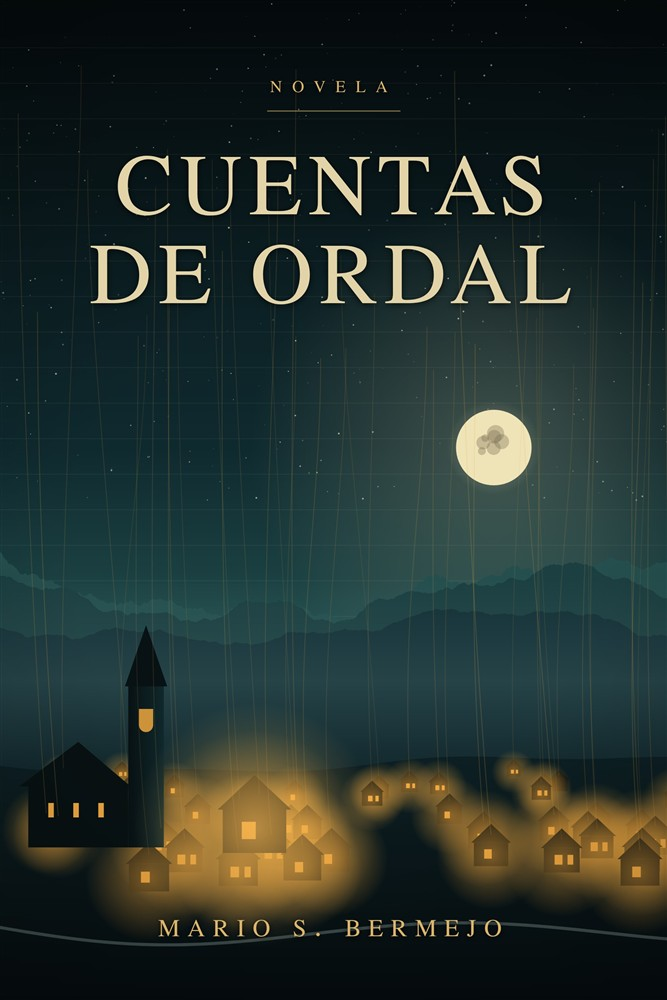
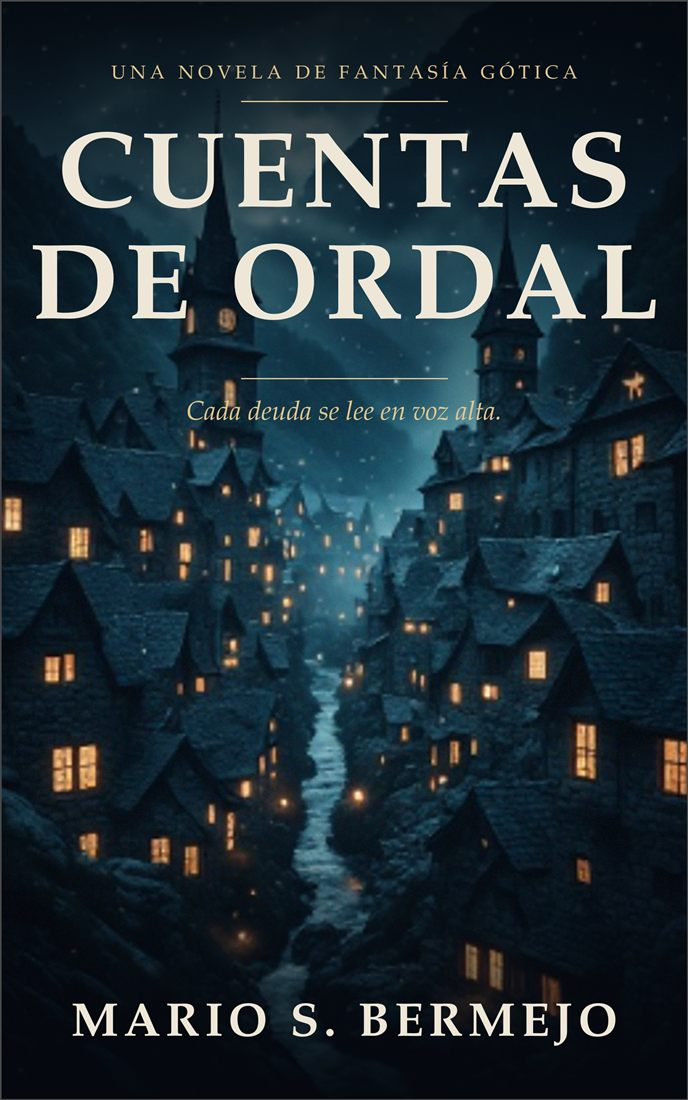
Fondo de libreria antigua, portada nueva y carrusel de laminas en Cuentas de Ordal

diff --git a/index.html b/index.html
@@ -25,6 +25,7 @@
 </head>
 <body>
 
+<canvas id="shelves" aria-hidden="true"></canvas>
 <div class="sparkles" id="sparkles" aria-hidden="true"></div>
 
 <div class="wrap">
@@ -82,6 +83,24 @@
         <li>eBook y papel</li>
       </ul>
       <p class="soon-follow">Te avisaré del lanzamiento en <a href="https://www.instagram.com/la.estanteriainfinita/" target="_blank" rel="noopener">Instagram</a> y <a href="https://www.tiktok.com/@la.estanteria.infinita" target="_blank" rel="noopener">TikTok</a>.</p>
+    </div>
+
+    <div class="car" role="region" aria-roledescription="carrusel" aria-label="Láminas de Cuentas de Ordal">
+      <p class="car-title">Láminas del libro</p>
+      <button class="car-btn car-prev" type="button" aria-label="Lámina anterior">&#8249;</button>
+      <div class="car-track" tabindex="0">
+        <figure><img src="img/ordal-lamina-01.jpg" alt="Lámina I: El libro, en su atril" loading="lazy"></figure>
+        <figure><img src="img/ordal-lamina-02.jpg" alt="Lámina II: La lectura en la plaza" loading="lazy"></figure>
+        <figure><img src="img/ordal-lamina-03.jpg" alt="Lámina III: La mano izquierda" loading="lazy"></figure>
+        <figure><img src="img/ordal-lamina-04.jpg" alt="Lámina IV: Las manos de Casa Lobera" loading="lazy"></figure>
+        <figure><img src="img/ordal-lamina-05.jpg" alt="Lámina V: El archivo del juzgado" loading="lazy"></figure>
+        <figure><img src="img/ordal-lamina-06.jpg" alt="Lámina VI: La hora repetida" loading="lazy"></figure>
+        <figure><img src="img/ordal-lamina-07.jpg" alt="Lámina VII: El cuaderno de hule" loading="lazy"></figure>
+        <figure><img src="img/ordal-lamina-08.jpg" alt="Lámina VIII: Hielo y silencio" loading="lazy"></figure>
+        <figure><img src="img/ordal-lamina-09.jpg" alt="Lámina IX: La hoja 142" loading="lazy"></figure>
+        <figure><img src="img/ordal-lamina-10.jpg" alt="Lámina X: La casa de la ribera" loading="lazy"></figure>
+      </div>
+      <button class="car-btn car-next" type="button" aria-label="Lámina siguiente">&#8250;</button>
     </div>
   </aside>
 
@@ -295,6 +314,87 @@
       });
     });
     mark();
+
+    /* librería antigua: estanterías dibujadas con un generador con semilla fija */
+    var cv = document.getElementById('shelves');
+    function rng(seed) { return function () { seed |= 0; seed = seed + 0x6D2B79F5 | 0; var t = Math.imul(seed ^ seed >>> 15, 1 | seed); t = t + Math.imul(t ^ t >>> 7, 61 | t) ^ t; return ((t ^ t >>> 14) >>> 0) / 4294967296; }; }
+    function drawShelves() {
+      var W = cv.width = window.innerWidth, H = cv.height = window.innerHeight;
+      var c = cv.getContext('2d'), r = rng(1907), s = Math.min(1.35, Math.max(0.7, W / 1280));
+      var rowH = 200 * s, plank = 18 * s;
+      var cols = ['#5b2a1e', '#7a3b24', '#2f4a3a', '#27384f', '#6a1f2b', '#8a6a2f', '#3b2a1a', '#4d3a5a', '#a37b3a', '#1f2d2b', '#6e4a2a', '#41261c'];
+      var glows = [];
+      for (var y = 0; y < H + rowH; y += rowH) {
+        var base = y + rowH - plank;
+        var wall = c.createLinearGradient(0, y, 0, base);
+        wall.addColorStop(0, '#120c07'); wall.addColorStop(1, '#241810');
+        c.fillStyle = wall; c.fillRect(0, y, W, rowH);
+        var x = -8 * s;
+        while (x < W) {
+          if (r() < 0.07) { x += (10 + r() * 30) * s; continue; }
+          var w = (15 + r() * 30) * s, h = rowH * (0.5 + r() * 0.42) - plank * 0.3, col = cols[Math.floor(r() * cols.length)];
+          c.save();
+          var lean = r() < 0.05;
+          if (lean) { c.translate(x + w, base); c.rotate(-0.16); c.translate(-(x + w), -base); }
+          var g = c.createLinearGradient(x, 0, x + w, 0);
+          g.addColorStop(0, col); g.addColorStop(0.18, col); g.addColorStop(1, '#0c0705');
+          c.fillStyle = g; c.fillRect(x, base - h, w, h);
+          c.fillStyle = 'rgba(255,255,255,0.07)'; c.fillRect(x, base - h, 2 * s, h);
+          c.fillStyle = 'rgba(214,170,80,0.75)';
+          c.fillRect(x, base - h + 9 * s, w, 2 * s); c.fillRect(x, base - h + 14 * s, w, 1 * s);
+          c.fillRect(x, base - 12 * s, w, 2 * s);
+          if (r() < 0.45 && w > 20 * s) { c.fillStyle = 'rgba(232,210,150,0.55)'; c.fillRect(x + w * 0.2, base - h * 0.62, w * 0.6, h * 0.2); }
+          c.restore();
+          if (r() < 0.012) glows.push([x + w / 2, base - h - 6 * s]);
+          x += w + (r() < 0.2 ? r() * 3 * s : 0);
+        }
+        var pg = c.createLinearGradient(0, base, 0, base + plank);
+        pg.addColorStop(0, '#7b5230'); pg.addColorStop(0.15, '#5e3b20'); pg.addColorStop(1, '#2d1a0e');
+        c.fillStyle = pg; c.fillRect(0, base, W, plank);
+        c.fillStyle = 'rgba(0,0,0,0.5)'; c.fillRect(0, base - 3 * s, W, 3 * s);
+      }
+      var post = 26 * s;
+      [0.06, 0.5, 0.94].forEach(function (p) {
+        var px = W * p - post / 2, pgr = c.createLinearGradient(px, 0, px + post, 0);
+        pgr.addColorStop(0, '#2d1a0e'); pgr.addColorStop(0.5, '#6a4426'); pgr.addColorStop(1, '#2a180c');
+        c.fillStyle = pgr; c.fillRect(px, 0, post, H);
+      });
+      c.globalCompositeOperation = 'screen';
+      var lamp = c.createRadialGradient(W * 0.5, H * 0.18, 0, W * 0.5, H * 0.18, Math.max(W, H) * 0.7);
+      lamp.addColorStop(0, 'rgba(255,170,70,0.5)'); lamp.addColorStop(1, 'rgba(255,170,70,0)');
+      c.fillStyle = lamp; c.fillRect(0, 0, W, H);
+      glows.slice(0, 14).forEach(function (p) {
+        var gr = c.createRadialGradient(p[0], p[1], 0, p[0], p[1], 90 * s);
+        gr.addColorStop(0, 'rgba(255,196,110,0.55)'); gr.addColorStop(1, 'rgba(255,196,110,0)');
+        c.fillStyle = gr; c.fillRect(p[0] - 90 * s, p[1] - 90 * s, 180 * s, 180 * s);
+      });
+      c.globalCompositeOperation = 'source-over';
+      var vg = c.createRadialGradient(W / 2, H / 2, Math.min(W, H) * 0.25, W / 2, H / 2, Math.max(W, H) * 0.75);
+      vg.addColorStop(0, 'rgba(0,0,0,0)'); vg.addColorStop(1, 'rgba(0,0,0,0.65)');
+      c.fillStyle = vg; c.fillRect(0, 0, W, H);
+    }
+    var rt; drawShelves();
+    window.addEventListener('resize', function () { clearTimeout(rt); rt = setTimeout(drawShelves, 200); });
+
+    /* carrusel de láminas */
+    var car = document.querySelector('.car');
+    if (car) {
+      var track = car.querySelector('.car-track'), timer = null, paused = false;
+      var reduce = window.matchMedia && matchMedia('(prefers-reduced-motion: reduce)').matches;
+      var step = function () { var f = track.querySelector('figure'); return f.getBoundingClientRect().width + 14; };
+      var go = function (dir) {
+        var max = track.scrollWidth - track.clientWidth;
+        if (dir > 0 && track.scrollLeft >= max - 4) track.scrollTo({ left: 0, behavior: 'smooth' });
+        else if (dir < 0 && track.scrollLeft <= 4) track.scrollTo({ left: max, behavior: 'smooth' });
+        else track.scrollBy({ left: dir * step(), behavior: 'smooth' });
+      };
+      car.querySelector('.car-prev').addEventListener('click', function () { go(-1); });
+      car.querySelector('.car-next').addEventListener('click', function () { go(1); });
+      track.addEventListener('keydown', function (e) { if (e.key === 'ArrowRight') go(1); if (e.key === 'ArrowLeft') go(-1); });
+      ['mouseenter', 'focusin', 'touchstart'].forEach(function (ev) { car.addEventListener(ev, function () { paused = true; }, { passive: true }); });
+      ['mouseleave', 'focusout'].forEach(function (ev) { car.addEventListener(ev, function () { paused = false; }); });
+      if (!reduce) timer = setInterval(function () { if (!paused && !document.hidden) go(1); }, 4200);
+    }
 
     var box = document.getElementById('sparkles');
     for (var i = 0; i < 34; i++) {

diff --git a/styles.css b/styles.css
@@ -228,6 +228,7 @@ footer { margin-top: 90px; padding: 30px 0 46px; border-top: 1px solid var(--lin
   position: relative;
   overflow: hidden;
 }
+.soon > * { min-width: 0; }
 .soon::after {
   content: "";
   position: absolute;
@@ -259,6 +260,62 @@ footer { margin-top: 90px; padding: 30px 0 46px; border-top: 1px solid var(--lin
 .soon-meta li { border: 1px solid rgba(240, 192, 102, .5); padding: 4px 14px; font-size: .82rem; letter-spacing: .08em; text-transform: uppercase; }
 .soon-follow { font-size: .95rem; color: #c9c2a8; margin-bottom: 0 !important; }
 .soon-follow a { color: #f0c066; }
+
+/* carrusel de láminas (dentro del banner de Ordal) */
+.car { grid-column: 1 / -1; position: relative; padding-top: 8px; z-index: 1; }
+.car-title { font-size: .78rem; letter-spacing: .26em; text-transform: uppercase; color: #f0c066; margin-bottom: 14px !important; }
+.car-track {
+  display: flex;
+  gap: 14px;
+  overflow-x: auto;
+  scroll-snap-type: x mandatory;
+  scrollbar-width: none;
+  padding: 4px 2px 10px;
+}
+.car-track::-webkit-scrollbar { display: none; }
+.car-track:focus-visible { outline: 2px solid #f0c066; outline-offset: 4px; }
+.car-track figure { flex: 0 0 clamp(150px, 21%, 215px); scroll-snap-align: start; margin: 0; }
+.car-track img {
+  width: 100%;
+  aspect-ratio: 2 / 3;
+  object-fit: cover;
+  box-shadow: 0 10px 24px rgba(0, 0, 0, .55);
+  outline: 1px solid rgba(240, 192, 102, .35);
+  transition: transform .3s;
+}
+.car-track figure:hover img { transform: translateY(-6px); }
+.car-btn {
+  position: absolute;
+  top: calc(50% + 14px);
+  z-index: 2;
+  width: 42px;
+  height: 42px;
+  border-radius: 50%;
+  border: 1px solid rgba(240, 192, 102, .6);
+  background: rgba(10, 23, 26, .85);
+  color: #f0c066;
+  font-size: 1.7rem;
+  line-height: 1;
+  cursor: pointer;
+}
+.car-btn:hover { background: #f0c066; color: #0a171a; }
+.car-btn:focus-visible { outline: 2px solid #fff; outline-offset: 2px; }
+.car-prev { left: -14px; }
+.car-next { right: -14px; }
+
+/* fondo de librería antigua */
+#shelves {
+  position: fixed;
+  inset: 0;
+  width: 100%;
+  height: 100%;
+  z-index: 0;
+  pointer-events: none;
+  opacity: .36;
+  transition: opacity .4s, filter .4s;
+}
+:root[data-theme="light"] #shelves { opacity: .16; filter: sepia(.6) saturate(.8) brightness(1.5) contrast(.8); mix-blend-mode: multiply; }
+:root[data-theme="fantasy"] #shelves { opacity: .3; filter: hue-rotate(255deg) saturate(1.7); }
 
 /* selector de modo */
 .head-right { display: flex; align-items: baseline; gap: 26px; }
@@ -380,5 +437,8 @@ body, .modes, .buy { transition: background-color .4s, color .4s; }
   .about { grid-template-columns: 1fr; gap: 36px; }
   .soon { grid-template-columns: 1fr; gap: 32px; padding: 30px 22px; }
   .soon-cover { max-width: 240px; }
+  .car-track figure { flex-basis: 150px; }
+  .car-prev { left: -8px; }
+  .car-next { right: -8px; }
   .note { display: block; margin: 12px 0 0; }
 }
